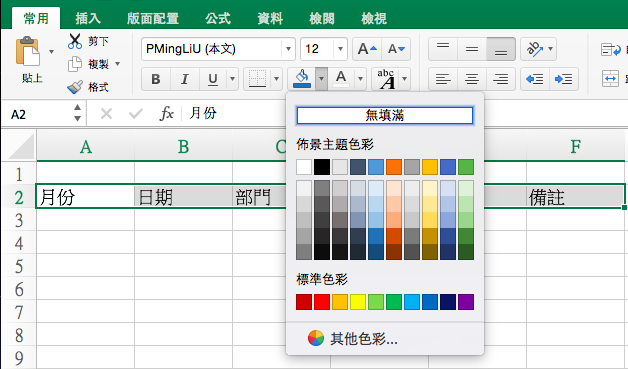
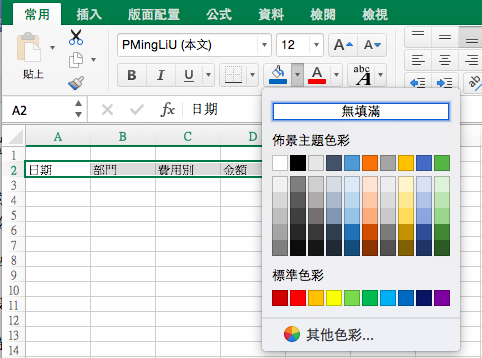
content

diff --git a/post-3.html b/post-3.html
@@ -91,30 +91,60 @@
         <div class="container">
             <div class="row">
                 <div class="col-lg-8 col-lg-offset-2 col-md-10 col-md-offset-1">
-                    <p>&nbsp;&nbsp;&nbsp;&nbsp;&nbsp;&nbsp;&nbsp; 在工作上，我們常常會收到大量的客戶資料，如：客戶姓名、註冊日期、購買時間、購買數量、會員編號等，這些上千、上萬筆的資料，如何做快速的搜尋、分類及統計，常常都是上班族會遇到的問題，就讓 Toppall 教您如何快速建立具價值的資訊表單。</p>
+                    <p>&nbsp;&nbsp;&nbsp;&nbsp;&nbsp;&nbsp;&nbsp; 無論是個部門間的費用結算，或是日常雜支的支出情況，皆可以用Excel計算費用使用情況，並能夠更精確預估下個月的預算分配。</p>
                     <p>&nbsp;※ 本篇可以讓您學到：<br>
-                        &nbsp;&nbsp;&nbsp;&nbsp;(1) 欄位資料名稱設定<br>
-                        &nbsp;&nbsp;&nbsp;&nbsp;(2) 計算表單中符合特定條件之資料「個數」<br>
-                        &nbsp;&nbsp;&nbsp;&nbsp;(3) 計算表單中符合特定條件之資料「總和」</p>
+                        &nbsp;&nbsp;&nbsp;&nbsp;(1) 選填式表單設計<br>
+                        &nbsp;&nbsp;&nbsp;&nbsp;(2) 篩選表單內特定項目<br>
+                        &nbsp;&nbsp;&nbsp;&nbsp;(3) 分類計算表單數值總額 </p>
                     
-                    <h1 class="section-heading">  1. 資料設定  </h1>
-                        <h2>  &nbsp;&nbsp;1.1 資料輸入 </h2>
                     
-                    <p>首先，先將表單之資料輸入，並為每欄資料命名。</p>
+                    <h1 class="section-heading">  1. 表單建立  </h1>
+                        <h2>1.1 格式設定 </h2>
                     
-                    <center><img class="img-responsive" src="img/Toppall_ver2_blog1_1.jpg" alt=""></center>
+                    <p>首先，先將資料建立，並於最上欄建立一個表頭。<br>
+                        <br>
+                        先於第二行依序輸入「月份」、「日期」、「部門」、「費用別」、「金額」、「備註」等欄位。</p>
+                    
+                
                    
+                    <br> 
+                    
+                        <h3>  表格底色填滿 </h3> 
+                           
+                                <p>選取A2至F2的表格，按下「填滿色彩 <img src="img/%E5%A1%AB%E6%BB%BF%E8%89%B2%E5%BD%A9icon.png"> 」，選擇欲填滿之色彩。
+</p>
+                    
+                    <center><img src="img/Toppall_ver2_blog3_1.png"></center>
+                    <br> <br>
+                    
+                    並於「字型色彩<img src="img/%E5%AD%97%E5%9E%8B%E8%89%B2%E5%BD%A9icon.png">」的按鈕處，選擇喜好的文字色彩。  <br> <br>
+                    <center><img src="img/Toppall_ver2_blog3_2.png"></center>
+                    
+                    <br> <br>
+                    
+                    
+                    <h3> 表頭建立 </h3> 
+                    <p>選取A1至F1的表格，按下「跨欄置中<img src="img/%E8%B7%A8%E6%AC%84%E7%BD%AE%E4%B8%ADicon.png">」鈕，即可合併儲存格，並輸入表頭「日常費用表」</p>
+                     <center><img src="img/Toppall_ver2_blog3_3.png"></center>
+                    
                     <br> <br> <br>
                     
-                        <h2>  1.2 欄位設定 </h2> 
-                            <h3> 方法一、定義名稱</h3>
-                                <p>將表單各欄位資料設定名稱，以便在公式中使用。<br>
-                                    至「公式」頁面，點選「定義名稱」之功能按鈕。</p>
+                     <h1 class="section-heading">  2. 資料驗證  </h1>
+                    <h2>2.1 設定資料驗證</h2>
+                    <p>選取C欄，點選「資料驗證<img src="img/%E8%B3%87%E6%96%99%E9%A9%97%E8%AD%89icon.png">」，於「設定」頁面的「允許」欄位選擇「清單」，並於「來源」欄位填入此類別表單的選項，並用「,」區隔不同類別。 </p>
                     
-                    <center><img src="img/Toppall_ver2_blog1_2.jpg"></center>
                     
+                    
+                    
+                    
+                    
+                    
+                    
+                    
+                    
+                     <br> <br> <br> <br> <br> <br> <br> <br> <br> <br> <br> <br> <br> <br> <br> <br> <br> <br> <br> <br> <br> <br>
                     <br>
-                                <p>在「選取儲存格範圍」欄位點選該欄右方「表格圖示之按鈕<img src="img/%E8%A1%A8%E6%A0%BCicon.jpg">，選取欲定義之欄位，並「輸入資料範圍的名稱」(即該欄之項目名稱)，並於該欄最上方將定義名稱填入。 </p>
+                   <p>在「選取儲存格範圍」欄位點選該欄右方「表格圖示之按鈕<img src="img/%E8%A1%A8%E6%A0%BCicon.jpg">，選取欲定義之欄位，並「輸入資料範圍的名稱」(即該欄之項目名稱)，並於該欄最上方將定義名稱填入。 </p>
                     
                     <center><img class="img-responsive" src="img/Toppall_ver2_blog1_3.jpg" alt=""></center>
                     <br>
